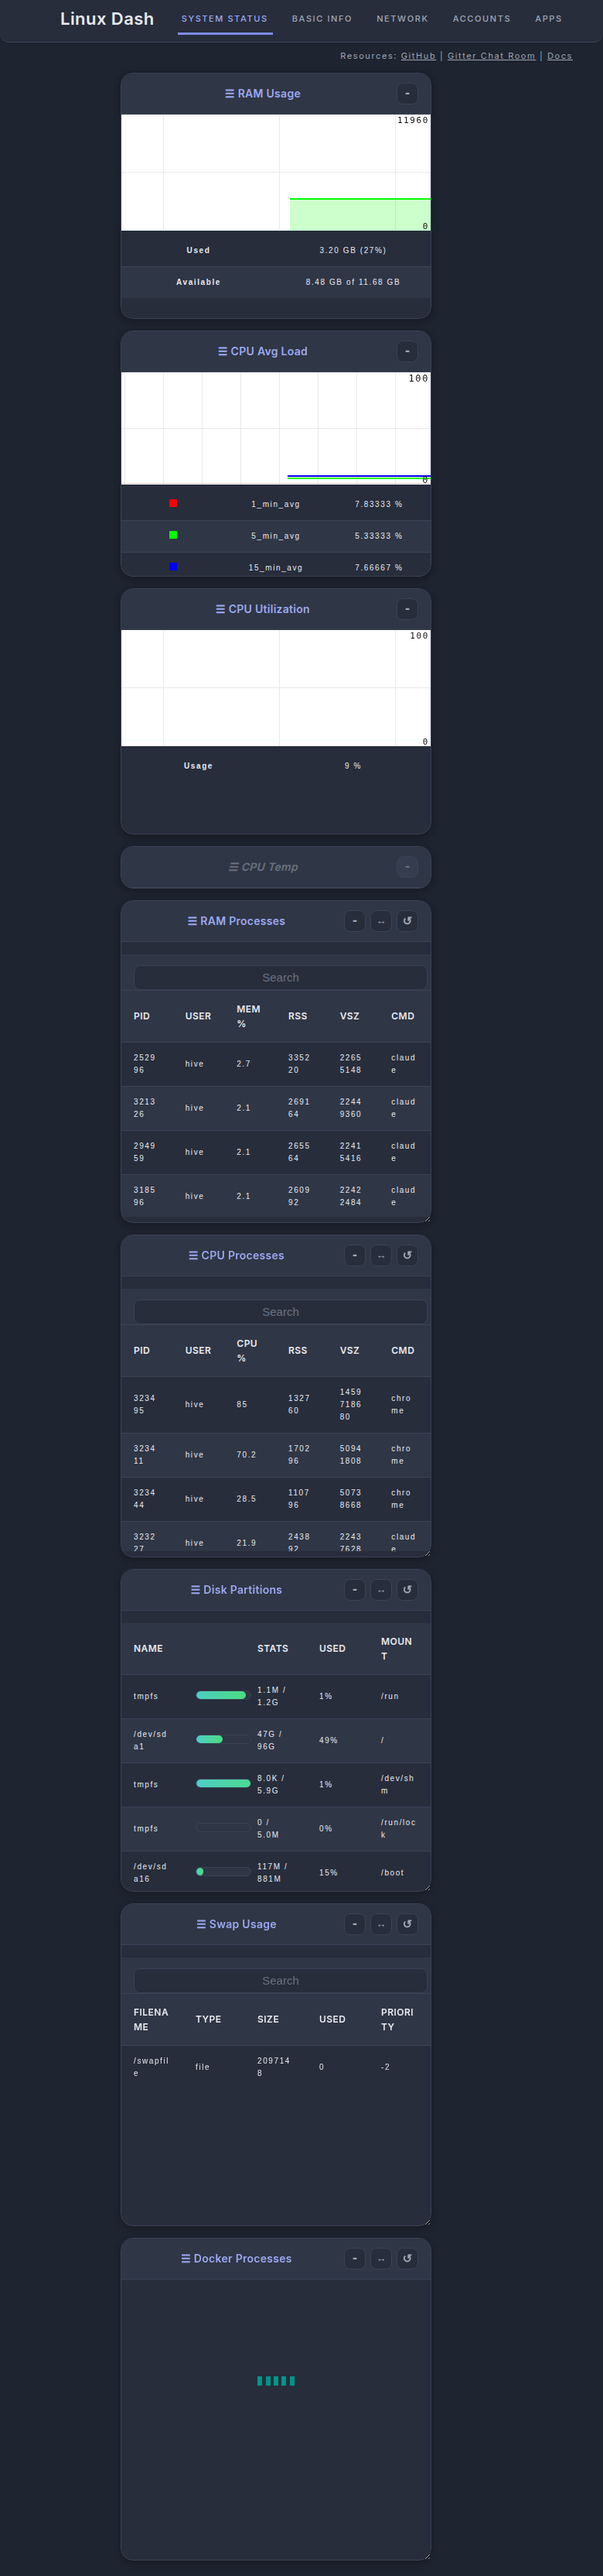
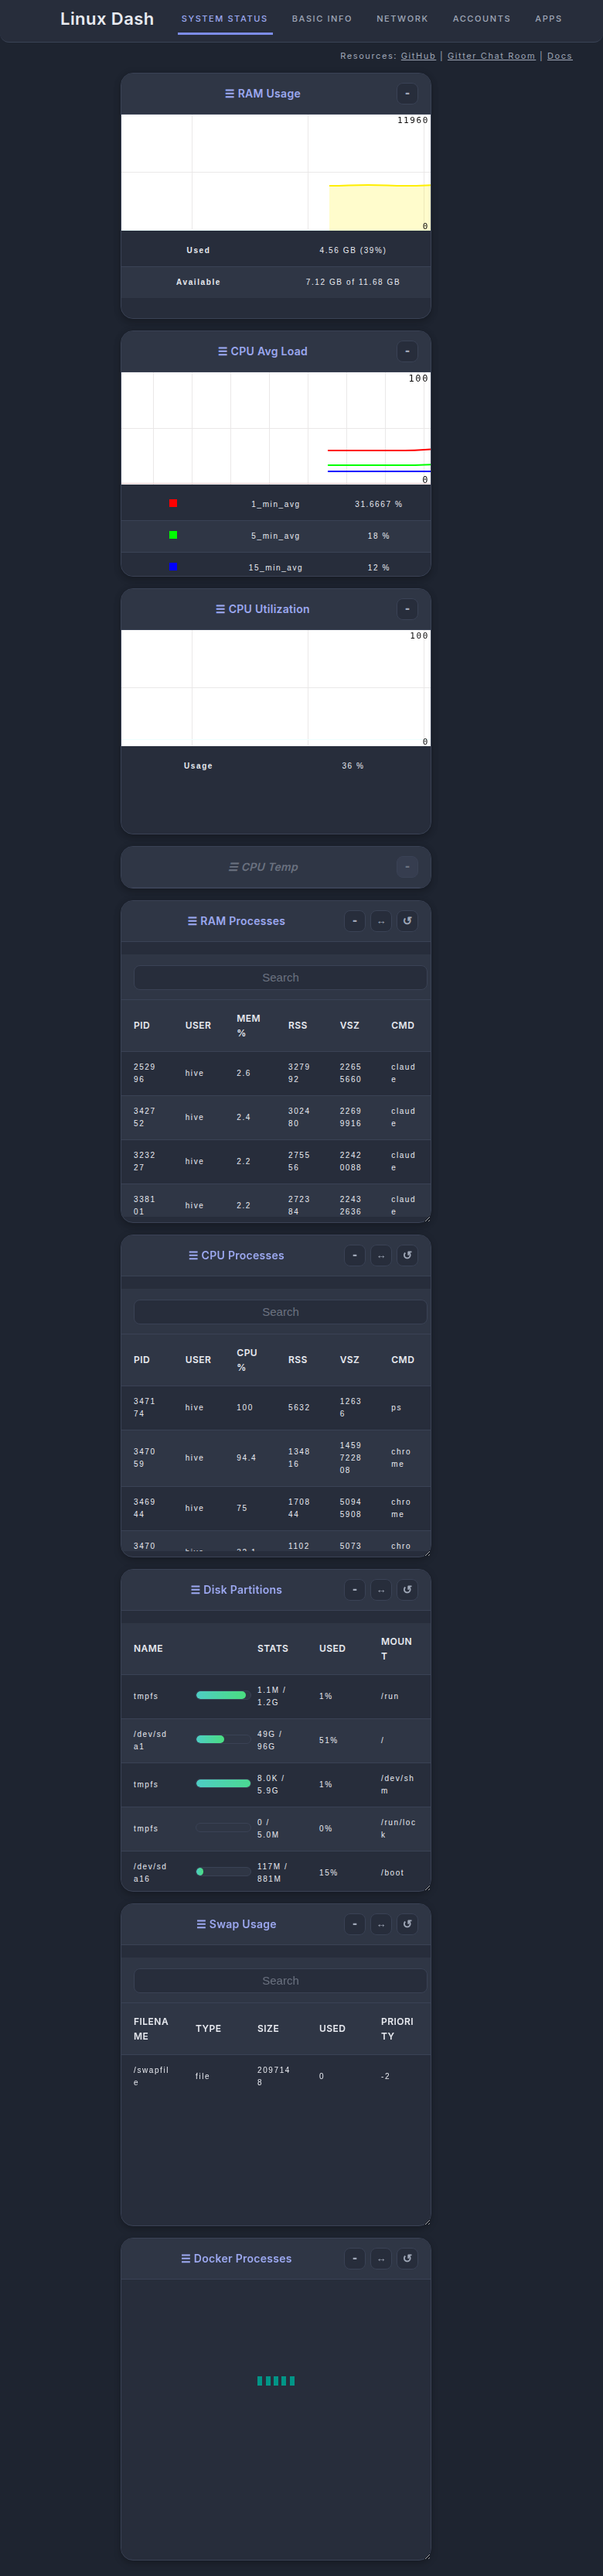
Add bottom spacing to search field in flat skin
Added 12px padding-bottom to .table-data-plugin .filter-container to create visual spacing between the search field and table headers in all plugin cards.

Updated screenshot to reflect current implementation.

🤖 Generated with [Claude Code](https://claude.com/claude-code)

diff --git a/app/skins/flat.min.css b/app/skins/flat.min.css
@@ -1,1 +1,1 @@
-:root{--flat-primary:#7c8ce8;--flat-primary-dark:#5c6cc8;--flat-primary-light:#9ca8f0;--flat-accent:#4ecdc4;--flat-accent-dark:#3db8b0;--flat-background:#1e2430;--flat-surface:#272d3b;--flat-surface-alt:#2f3645;--flat-surface-hover:#363d4f;--flat-text:#e8eaf0;--flat-text-secondary:#a0a8b8;--flat-text-muted:#6b7280;--flat-border:#3a4255;--flat-success:#4ade80;--flat-warning:#fbbf24;--flat-error:#f87171;--flat-radius:12px;--flat-radius-sm:8px;--flat-radius-lg:16px}body{background-color:var(--flat-background);font-family:Inter,'Segoe UI',-apple-system,BlinkMacSystemFont,sans-serif;color:var(--flat-text)}nav-bar{background:var(--flat-surface);border-radius:0 0 var(--flat-radius) var(--flat-radius);height:48px;padding-top:6px;border-bottom:1px solid var(--flat-border)}nav-bar .title{color:var(--flat-text);font-weight:600;font-size:22px;letter-spacing:.02em}nav-bar ul li a{color:var(--flat-text-secondary);font-weight:500;transition:color .2s ease}nav-bar ul li a:hover{color:var(--flat-primary-light)}nav-bar ul li.active{border-bottom:3px solid var(--flat-primary)}nav-bar ul li.active a{color:var(--flat-primary-light)}nav-bar .right-content{color:var(--flat-text-secondary);margin-top:12px}nav-bar .right-content a{color:var(--flat-text-secondary)}nav-bar .right-content a:hover{color:var(--flat-primary-light)}#plugins{padding:20px 10%}.plugin{background-color:var(--flat-surface);border-radius:var(--flat-radius-lg);border:1px solid var(--flat-border);margin:20px 20px 0 0;transition:border-color .2s ease,background-color .2s ease;overflow:hidden}.plugin:hover{border-color:var(--flat-primary);background-color:var(--flat-surface-alt)}.top-bar{background:var(--flat-surface-alt);border-bottom:1px solid var(--flat-border);padding:12px 16px;height:auto;display:flex;align-items:center;justify-content:space-between}.top-bar .heading{color:var(--flat-primary-light);font-weight:600;font-size:14px;letter-spacing:.02em;float:none;flex:1}.plugin-hidden .top-bar .heading{color:var(--flat-text-muted)}.ld-top-bar-btn{background:var(--flat-surface);border:1px solid var(--flat-border);border-radius:var(--flat-radius-sm);color:var(--flat-text-secondary);width:28px;height:28px;margin:0 0 0 6px;padding:0;float:none;display:inline-flex;align-items:center;justify-content:center;font-size:14px;line-height:28px;text-align:center;vertical-align:middle;box-sizing:border-box;transition:all .2s ease}.ld-top-bar-btn.minimize-btn{font-size:18px;font-weight:700;padding-bottom:2px}.ld-top-bar-btn.width-toggle-btn{font-size:13px}.ld-top-bar-btn.refresh-btn{font-size:15px}.ld-top-bar-btn:hover{background:var(--flat-primary);border-color:var(--flat-primary);color:#fff}.ld-refresh-btn:hover{background:var(--flat-accent);border-color:var(--flat-accent);color:#fff}.ld-refresh-btn:active{background:var(--flat-accent-dark);border-color:var(--flat-accent-dark)}.plugin-enlarged .width-toggle-btn,.plugin-hidden .minimize-btn{background:var(--flat-surface-hover);color:var(--flat-text-muted)}.plugin-body{background-color:var(--flat-surface);border-top:none;padding:16px 20px;font-size:13px;line-height:1.6;color:var(--flat-text)}.plugin-body:has(table),.table-data-plugin .plugin-body{padding-left:0;padding-right:0}.progress-bar{background-color:var(--flat-surface-alt);border-radius:var(--flat-radius-sm);padding:0;height:10px;overflow:hidden;border:1px solid var(--flat-border)}.progress-bar>div{background:linear-gradient(90deg,var(--flat-accent) 0,var(--flat-success) 100%);height:10px;border-radius:var(--flat-radius-sm);transition:width .5s ease}table{border-collapse:separate;border-spacing:0;width:100%}table th{background-color:var(--flat-surface-alt);color:var(--flat-text);font-weight:600;font-size:12px;text-transform:uppercase;letter-spacing:.04em;padding:14px 16px;border-bottom:1px solid var(--flat-border)}table th a,table th a:link,table th a:visited{color:var(--flat-text);text-decoration:none}table th a:hover{color:var(--flat-primary-light)}table th:first-child{border-radius:0}table th:last-child{border-radius:0}table td{padding:12px 16px;border-bottom:1px solid var(--flat-border);background-color:var(--flat-surface);color:var(--flat-text)}table tr:nth-child(2n) td{background-color:var(--flat-surface-alt)}table tr:hover td{background-color:var(--flat-surface-hover)}table tr:last-child td{border-bottom:none}table tr:last-child td:first-child{border-radius:0}table tr:last-child td:last-child{border-radius:0}.table-data-plugin thead tr th a,.table-data-plugin thead tr th a:link,.table-data-plugin thead tr th a:visited{color:var(--flat-text);text-decoration:none}.table-data-plugin thead tr th a:hover{color:var(--flat-primary-light)}.table-data-plugin .column-sort-caret{color:var(--flat-primary)}.table-data-plugin .filter-container{background-color:var(--flat-surface-alt)}.table-data-plugin .filter,.table-data-plugin .filter:active,.table-data-plugin .filter:focus{background:var(--flat-surface);color:var(--flat-text);border:1px solid var(--flat-border);border-radius:var(--flat-radius-sm)}.table-data-plugin .filter::placeholder{color:var(--flat-text-muted)}.table-data-plugin .filter:focus{border-color:var(--flat-primary);outline:0}.key-value-list{padding:8px 0}.key-value-list .row{padding:10px 16px;border-radius:var(--flat-radius-sm);margin-bottom:4px;transition:background-color .2s ease}.key-value-list .row:hover{background-color:var(--flat-surface-alt)}.key-value-list .key{color:var(--flat-text-secondary);font-weight:500;font-size:12px;text-transform:uppercase;letter-spacing:.02em}.key-value-list .value{color:var(--flat-text);font-weight:600}.button,button,input[type=button],input[type=submit]{background:var(--flat-primary);color:#fff;border:none;border-radius:var(--flat-radius-sm);padding:10px 20px;font-weight:600;font-size:13px;cursor:pointer;transition:all .2s ease}.button:hover,button:hover,input[type=button]:hover,input[type=submit]:hover{background:var(--flat-primary-dark);transform:translateY(-1px)}.button:active,button:active,input[type=button]:active,input[type=submit]:active{transform:translateY(0)}input[type=email],input[type=number],input[type=search],input[type=text],select,textarea{background-color:var(--flat-surface-alt);border:1px solid var(--flat-border);border-radius:var(--flat-radius-sm);padding:10px 14px;font-size:14px;color:var(--flat-text);transition:all .2s ease}input[type=email]:focus,input[type=number]:focus,input[type=search]:focus,input[type=text]:focus,select:focus,textarea:focus{border-color:var(--flat-primary);outline:0}input[type=email]::placeholder,input[type=number]::placeholder,input[type=search]::placeholder,input[type=text]::placeholder,textarea::placeholder{color:var(--flat-text-muted)}.table-data input[type=text]{border:1px solid var(--flat-border);border-radius:var(--flat-radius-sm);padding:8px 12px;background-color:var(--flat-surface-alt);color:var(--flat-text)}.table-data input[type=text]:focus{border-color:var(--flat-primary)}.plugin ::-webkit-scrollbar{width:10px;height:10px}.plugin ::-webkit-scrollbar-track{background:var(--flat-surface);border-radius:var(--flat-radius-sm)}.plugin ::-webkit-scrollbar-thumb{background:var(--flat-border);border-radius:var(--flat-radius-sm);border:2px solid var(--flat-surface)}.plugin ::-webkit-scrollbar-thumb:hover{background:var(--flat-text-muted)}.plugin.chart-plugin{border-radius:var(--flat-radius-lg)}.plugin.chart-plugin .plugin-body{padding:0;border-radius:0 0 var(--flat-radius-lg) var(--flat-radius-lg);overflow:hidden}.ld-loader{border-radius:50%}.ld-loader::after{border-color:var(--flat-primary) transparent transparent transparent;border-width:3px}@media (max-width:768px){nav-bar{border-radius:0}.plugin{margin:15px auto;border-radius:var(--flat-radius)}#plugins{padding:10px 5%}}@media (max-width:950px){.plugin{margin:15px 10px 0 0}}@keyframes flatFadeIn{from{opacity:0;transform:translateY(10px)}to{opacity:1;transform:translateY(0)}}.plugin{animation:flatFadeIn .4s ease-out}@media print{nav-bar{background:#333}.plugin{border:1px solid #ddd;page-break-inside:avoid}.ld-top-bar-btn{display:none}}
+.top-bar,nav-bar,table td,table th{border-bottom:1px solid var(--flat-border)}body,nav-bar .title{color:var(--flat-text)}.top-bar .heading,nav-bar .title{font-weight:600;letter-spacing:.02em}:root{--flat-primary:#7c8ce8;--flat-primary-dark:#5c6cc8;--flat-primary-light:#9ca8f0;--flat-accent:#4ecdc4;--flat-accent-dark:#3db8b0;--flat-background:#1e2430;--flat-surface:#272d3b;--flat-surface-alt:#2f3645;--flat-surface-hover:#363d4f;--flat-text:#e8eaf0;--flat-text-secondary:#a0a8b8;--flat-text-muted:#6b7280;--flat-border:#3a4255;--flat-success:#4ade80;--flat-warning:#fbbf24;--flat-error:#f87171;--flat-radius:12px;--flat-radius-sm:8px;--flat-radius-lg:16px}body{background-color:var(--flat-background);font-family:Inter,'Segoe UI',-apple-system,BlinkMacSystemFont,sans-serif}nav-bar{background:var(--flat-surface);border-radius:0 0 var(--flat-radius) var(--flat-radius);height:48px;padding-top:6px}nav-bar .title{font-size:22px}nav-bar ul li a{color:var(--flat-text-secondary);font-weight:500;transition:color .2s ease}nav-bar ul li a:hover,nav-bar ul li.active a{color:var(--flat-primary-light)}nav-bar ul li.active{border-bottom:3px solid var(--flat-primary)}nav-bar .right-content,nav-bar .right-content a{color:var(--flat-text-secondary)}nav-bar .right-content{margin-top:12px}.top-bar .heading,nav-bar .right-content a:hover{color:var(--flat-primary-light)}#plugins{padding:20px 10%}.plugin{background-color:var(--flat-surface);border-radius:var(--flat-radius-lg);border:1px solid var(--flat-border);margin:20px 20px 0 0;transition:border-color .2s ease,background-color .2s ease;overflow:hidden;animation:flatFadeIn .4s ease-out}.plugin:hover{border-color:var(--flat-primary);background-color:var(--flat-surface-alt)}.top-bar{background:var(--flat-surface-alt);padding:12px 16px;height:auto;display:flex;align-items:center;justify-content:space-between}.top-bar .heading{font-size:14px;float:none;flex:1}.plugin-hidden .top-bar .heading{color:var(--flat-text-muted)}.ld-top-bar-btn{background:var(--flat-surface);border:1px solid var(--flat-border);border-radius:var(--flat-radius-sm);color:var(--flat-text-secondary);width:28px;height:28px;margin:0 0 0 6px;padding:0;float:none;display:inline-flex;align-items:center;justify-content:center;font-size:14px;line-height:28px;text-align:center;vertical-align:middle;box-sizing:border-box;transition:all .2s ease}.ld-top-bar-btn.minimize-btn{font-size:18px;font-weight:700;padding-bottom:2px}.ld-top-bar-btn.width-toggle-btn{font-size:13px}.ld-top-bar-btn.refresh-btn{font-size:15px}.ld-top-bar-btn:hover{background:var(--flat-primary);border-color:var(--flat-primary);color:#fff}.ld-refresh-btn:hover{background:var(--flat-accent);border-color:var(--flat-accent);color:#fff}.ld-refresh-btn:active{background:var(--flat-accent-dark);border-color:var(--flat-accent-dark)}.plugin-enlarged .width-toggle-btn,.plugin-hidden .minimize-btn{background:var(--flat-surface-hover);color:var(--flat-text-muted)}.plugin-body{background-color:var(--flat-surface);border-top:none;padding:16px 20px;font-size:13px;line-height:1.6;color:var(--flat-text)}.plugin-body:has(table),.table-data-plugin .plugin-body{padding-left:0;padding-right:0}.progress-bar{background-color:var(--flat-surface-alt);border-radius:var(--flat-radius-sm);padding:0;height:10px;overflow:hidden;border:1px solid var(--flat-border)}.progress-bar>div{background:linear-gradient(90deg,var(--flat-accent) 0,var(--flat-success) 100%);height:10px;border-radius:var(--flat-radius-sm);transition:width .5s ease}table th,table tr:nth-child(even) td{background-color:var(--flat-surface-alt)}table{border-collapse:separate;border-spacing:0;width:100%}table th{color:var(--flat-text);font-weight:600;font-size:12px;text-transform:uppercase;letter-spacing:.04em;padding:14px 16px}.table-data-plugin thead tr th a,.table-data-plugin thead tr th a:link,.table-data-plugin thead tr th a:visited,table th a,table th a:link,table th a:visited{color:var(--flat-text);text-decoration:none}table th a:hover{color:var(--flat-primary-light)}table th:first-child,table th:last-child,table tr:last-child td:first-child,table tr:last-child td:last-child{border-radius:0}table td{padding:12px 16px;background-color:var(--flat-surface);color:var(--flat-text)}table tr:hover td{background-color:var(--flat-surface-hover)}table tr:last-child td{border-bottom:none}.table-data-plugin thead tr th a:hover{color:var(--flat-primary-light)}.table-data-plugin .column-sort-caret{color:var(--flat-primary)}.table-data-plugin .filter-container{background-color:var(--flat-surface-alt);padding-bottom:12px}.table-data-plugin .filter,.table-data-plugin .filter:active,.table-data-plugin .filter:focus{background:var(--flat-surface);color:var(--flat-text);border:1px solid var(--flat-border);border-radius:var(--flat-radius-sm)}.table-data-plugin .filter::placeholder{color:var(--flat-text-muted)}.table-data-plugin .filter:focus{border-color:var(--flat-primary);outline:0}.key-value-list{padding:8px 0}.key-value-list .row{padding:10px 16px;border-radius:var(--flat-radius-sm);margin-bottom:4px;transition:background-color .2s ease}.key-value-list .row:hover{background-color:var(--flat-surface-alt)}.key-value-list .key{color:var(--flat-text-secondary);font-weight:500;font-size:12px;text-transform:uppercase;letter-spacing:.02em}.key-value-list .value{color:var(--flat-text);font-weight:600}.button,button,input[type=button],input[type=submit]{background:var(--flat-primary);color:#fff;border:none;border-radius:var(--flat-radius-sm);padding:10px 20px;font-weight:600;font-size:13px;cursor:pointer;transition:all .2s ease}.button:hover,button:hover,input[type=button]:hover,input[type=submit]:hover{background:var(--flat-primary-dark);transform:translateY(-1px)}.button:active,button:active,input[type=button]:active,input[type=submit]:active{transform:translateY(0)}input[type=text],input[type=search],input[type=email],input[type=number],select,textarea{background-color:var(--flat-surface-alt);border:1px solid var(--flat-border);border-radius:var(--flat-radius-sm);padding:10px 14px;font-size:14px;color:var(--flat-text);transition:all .2s ease}input[type=text]:focus,input[type=search]:focus,input[type=email]:focus,input[type=number]:focus,select:focus,textarea:focus{border-color:var(--flat-primary);outline:0}input[type=text]::placeholder,input[type=search]::placeholder,input[type=email]::placeholder,input[type=number]::placeholder,textarea::placeholder{color:var(--flat-text-muted)}.table-data input[type=text]{border:1px solid var(--flat-border);border-radius:var(--flat-radius-sm);padding:8px 12px;background-color:var(--flat-surface-alt);color:var(--flat-text)}.table-data input[type=text]:focus{border-color:var(--flat-primary)}.plugin ::-webkit-scrollbar{width:10px;height:10px}.plugin ::-webkit-scrollbar-track{background:var(--flat-surface);border-radius:var(--flat-radius-sm)}.plugin ::-webkit-scrollbar-thumb{background:var(--flat-border);border-radius:var(--flat-radius-sm);border:2px solid var(--flat-surface)}.plugin ::-webkit-scrollbar-thumb:hover{background:var(--flat-text-muted)}.plugin.chart-plugin{border-radius:var(--flat-radius-lg)}.plugin.chart-plugin .plugin-body{padding:0;border-radius:0 0 var(--flat-radius-lg) var(--flat-radius-lg);overflow:hidden}.ld-loader{border-radius:50%}.ld-loader::after{border-color:var(--flat-primary) transparent transparent;border-width:3px}@media (max-width:768px){nav-bar{border-radius:0}.plugin{margin:15px auto;border-radius:var(--flat-radius)}#plugins{padding:10px 5%}}@media (max-width:950px){.plugin{margin:15px 10px 0 0}}@keyframes flatFadeIn{from{opacity:0;transform:translateY(10px)}to{opacity:1;transform:translateY(0)}}@media print{nav-bar{background:#333}.plugin{border:1px solid #ddd;page-break-inside:avoid}.ld-top-bar-btn{display:none}}

diff --git a/src/css/skins/flat/flat.css b/src/css/skins/flat/flat.css
@@ -329,6 +329,7 @@ table tr:last-child td:last-child {
 
 .table-data-plugin .filter-container {
     background-color: var(--flat-surface-alt);
+    padding-bottom: 12px;
 }
 
 .table-data-plugin .filter,
